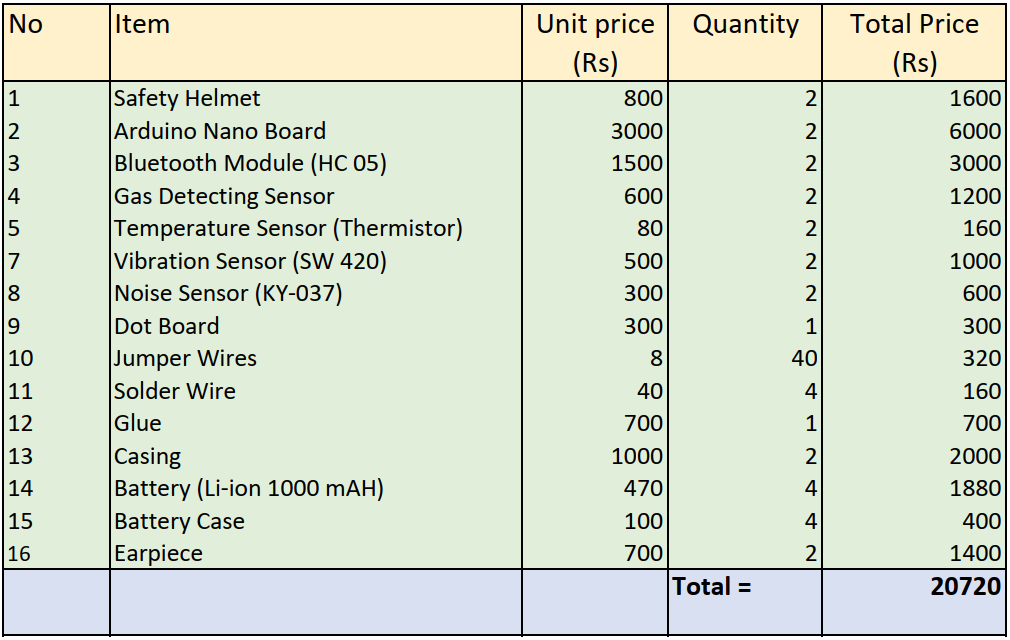
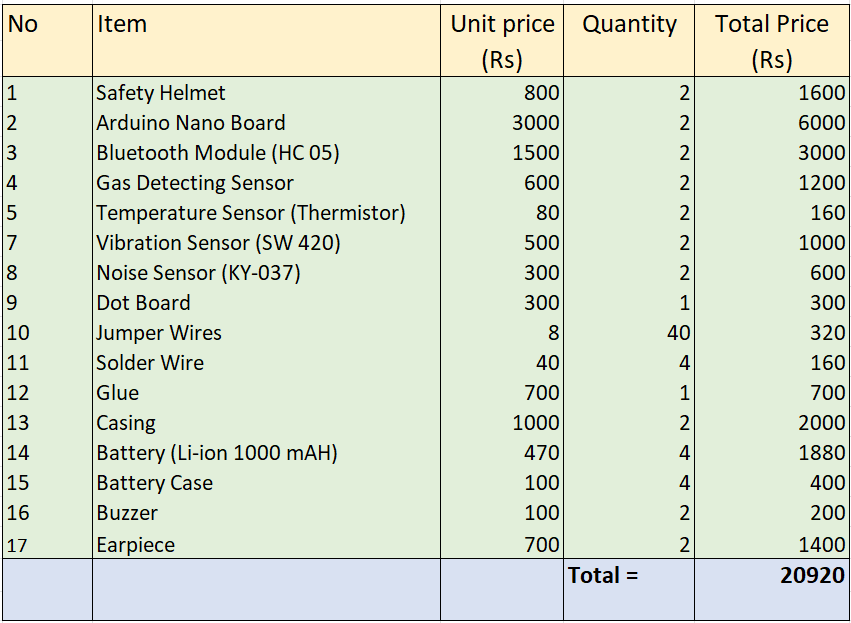
Budget section updated

Changed region(s): [[0.0, 0.0, 1.0, 1.0]]

diff --git a/docs/index.html b/docs/index.html
@@ -233,18 +233,18 @@
     </div>
     <!-- Solution Control Decisions End -->
 
-    <!-- Solution Control Decisions -->
+    <!-- budget -->
     <div id="control-deci" class="container-xxl py-5">
         <div class="container">
             <div class="text-center mx-auto pb-4 wow fadeInUp" data-wow-delay="0.1s" style="max-width: 600px;">
                 <h1 class="display-5 mb-4">Budget</h1>
             </div>
-            <div>
+            <div class="text-center">
                 <img src="img/budget.png" class="img-fluid" alt="Responsive image">
             </div>
         </div>
     </div>
-    <!-- Solution Control Decisions End -->
+    <!-- budget End -->
 
     <!-- Team Start -->
     <div class="container-xxl py-5">
